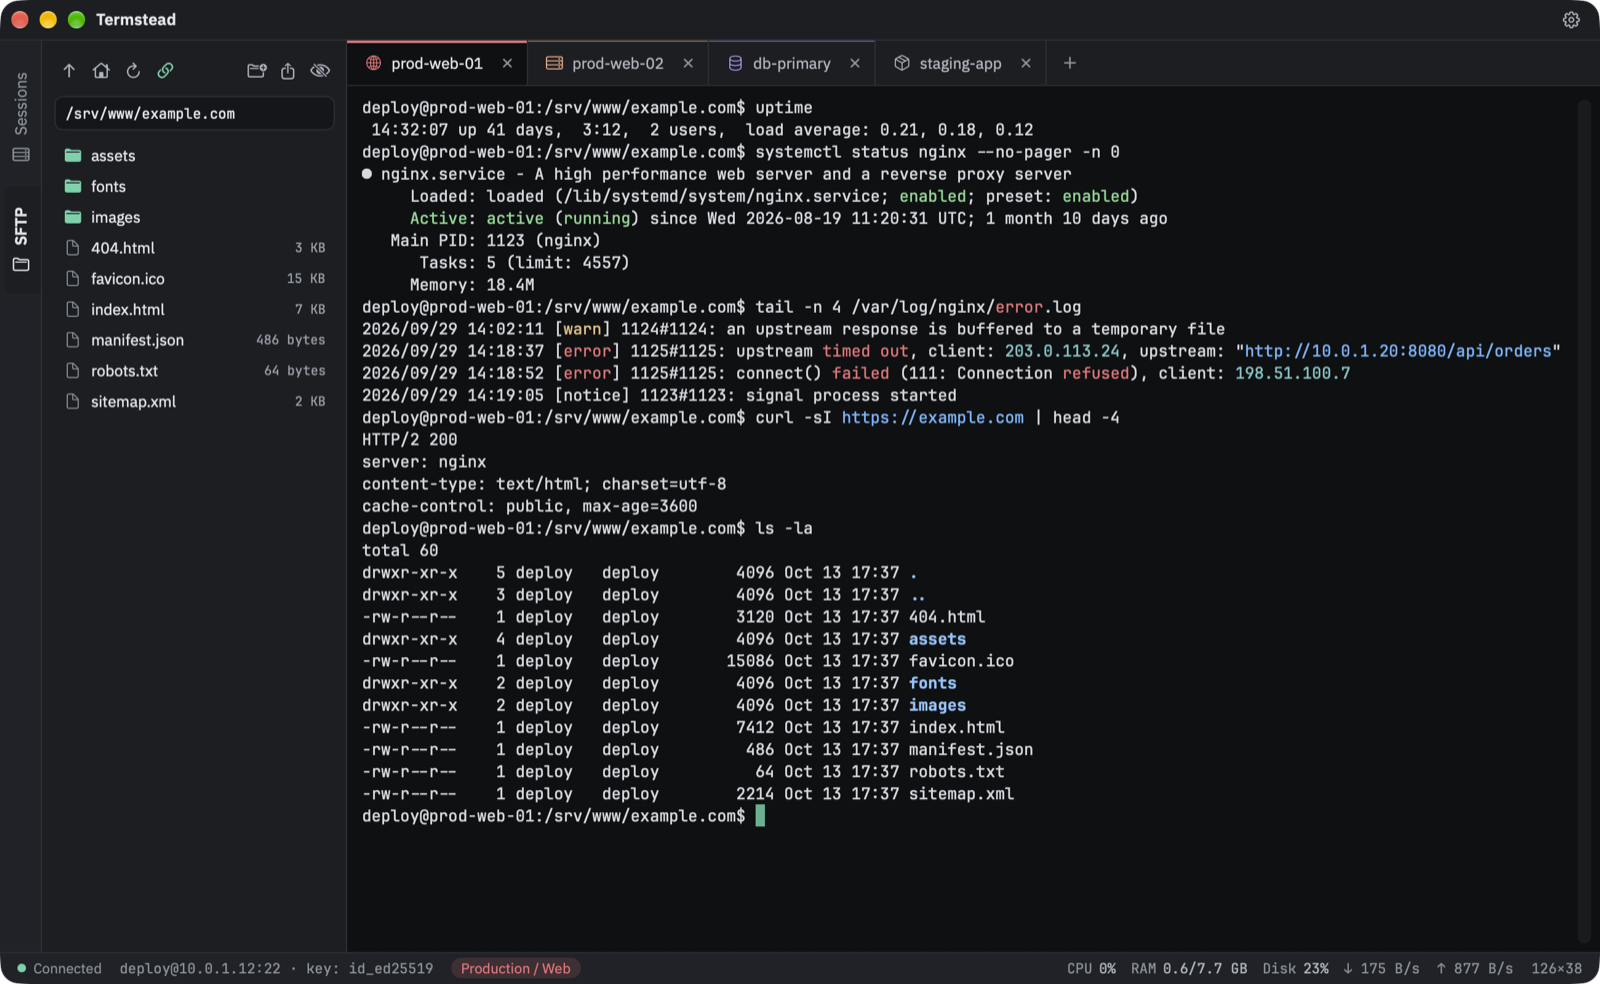
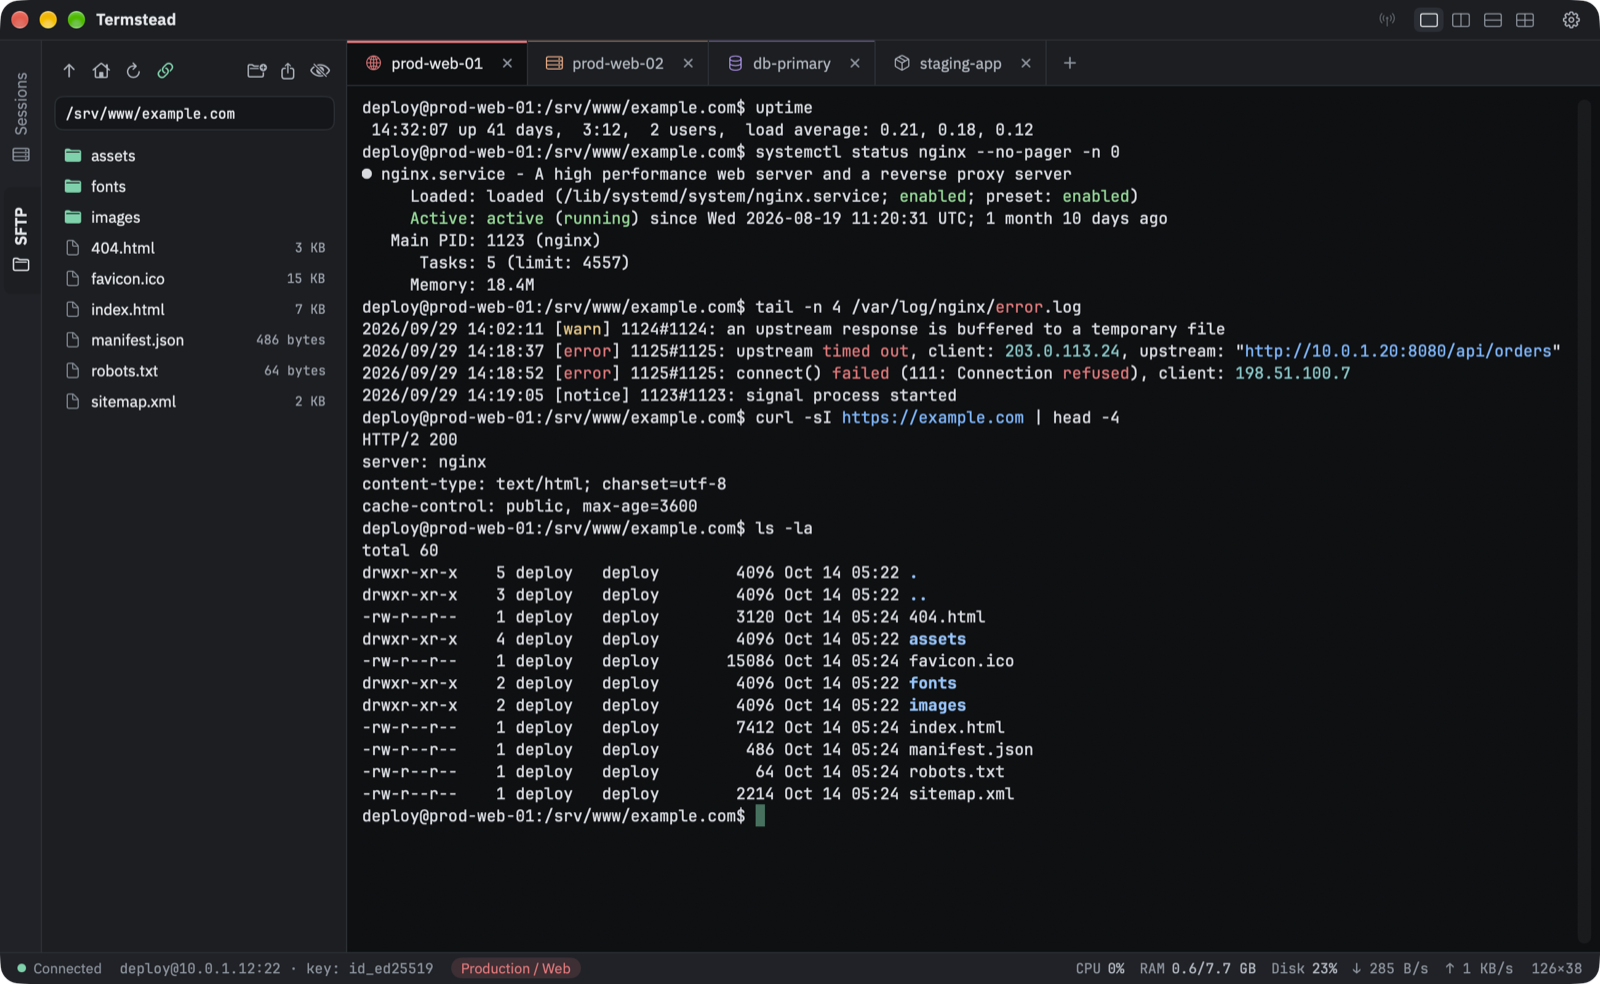
Reshoot the screenshots, with one of four panes broadcasting
The titlebar now carries the layout buttons, so the main window and SFTP
shots were out of date. The new panes shot comes from shoot.sh panes:
the four tabs in a 2×2 layout with broadcast input on (-sb-broadcast),
every server showing the same commands (fleet.sh).

diff --git a/Sources/Views/MainView.swift b/Sources/Views/MainView.swift
@@ -165,6 +165,10 @@ struct MainView: View {
                     connectionStore.activeID = tab.id
                 }
             }
+            // `-sb-broadcast YES` turns broadcast input on over those panes.
+            if defaults.bool(forKey: "sb-broadcast"), !connectionStore.isBroadcasting {
+                connectionStore.toggleBroadcast()
+            }
             if defaults.string(forKey: "sb-sidebar") == "files" { appState.sidebarTab = .files }
             // The tabs open at the last quit, once per launch and only into an
             // empty strip — the window can appear again later in the run.

diff --git a/CLAUDE.md b/CLAUDE.md
@@ -69,7 +69,7 @@ straight on a screen: `newSession`, `newGroup`, `sessionSettings` (with
 `-sb-session <name>`), `groupSettings` (with `-sb-group <id>`), `quickConnect`,
 `empty`, `appearance`.
 `-sb-color-picker YES` opens the custom color dialog over the main window.
-`-sb-connect a,b,c` opens those sessions' tabs at launch (the first in front), `-sb-layout sideBySide|stacked|grid` splits the window first and then deals those tabs out to the panes in turn, `-sb-sidebar files`
+`-sb-connect a,b,c` opens those sessions' tabs at launch (the first in front), `-sb-layout sideBySide|stacked|grid` splits the window first and then deals those tabs out to the panes in turn, `-sb-broadcast YES` turns broadcast input on over them, `-sb-sidebar files`
 shows the Files tab, and `-sb-ssh-prefix <file>` puts that file's ssh options
 ahead of the generated config (trust settings for a throwaway local sshd; start
 one with `Subsystem sftp /usr/libexec/sftp-server` to look at the Files tab).
@@ -158,13 +158,16 @@ Files tab: logs, a 20 MB file, odd names, symlinks, a read-only file and a
 folder that cannot be opened (`TestLab/entrypoint.sh`).
 
 **The README's screenshots** come from `TestLab/screenshots/shoot.sh`
-(`stage`, `open`, `clean`). It uses the sample sessions without the test lab,
-opens four tabs, and makes them look like real servers:
+(`stage`, `open`, `panes`, `clean`). It uses the sample sessions without the
+test lab, opens four tabs, and makes them look like real servers:
 - `prefix.conf` maps each sample address onto a lab container, `prod-web-02`
   through both jump hosts;
 - a demo script per server prints plausible output, then hands over to a shell
   with the matching prompt;
-- the Files tab follows `prod-web-01` into a staged web root.
+- the Files tab follows `prod-web-01` into a staged web root;
+- `panes` deals the four tabs out to a 2×2 layout with broadcast input on,
+  and every server runs `fleet.sh` instead: the same commands, as if typed
+  once.
 
 Nothing in them may show a real host, name or path. The sample host `nas`
 never gets a color.

diff --git a/README.md b/README.md
@@ -36,7 +36,8 @@
 - **Split the window.** Two panes side by side or stacked, or four, from the
   buttons beside the gear. Each pane has its own tabs; drag a tab onto
   another pane's strip to move it there. Broadcast input types into every
-  visible pane at once, and any pane can be left out.
+  visible pane at once — a yellow line marks each pane that takes it, and
+  any pane can be left out.
 - **Jump hosts.** Chain as many as you need; a jump host can be a saved session,
   with its own user, key or password.
 - **Server load at a glance.** The status bar shows the CPU, memory, disk and
@@ -57,10 +58,12 @@
   up/down and MAC addresses too.
 - **Six themes** — Graphite, Midnight, Ember, High contrast, Daylight, Sepia —
   following macOS light and dark mode if you like, any monospaced font,
-  copy on select, Option as Meta.
+  with or without its ligatures, copy on select, Option as Meta.
 - **It is the real OpenSSH.** Each tab runs the system `ssh`, so your agent,
   `~/.ssh/config`, `known_hosts` and `ProxyJump` all work exactly as in
   Terminal.
+
+![Four servers in four panes, with broadcast input on](docs/images/panes.png)
 
 <p align="center">
   <img src="docs/images/sftp.png" alt="The SFTP tab next to a session" width="56%">
